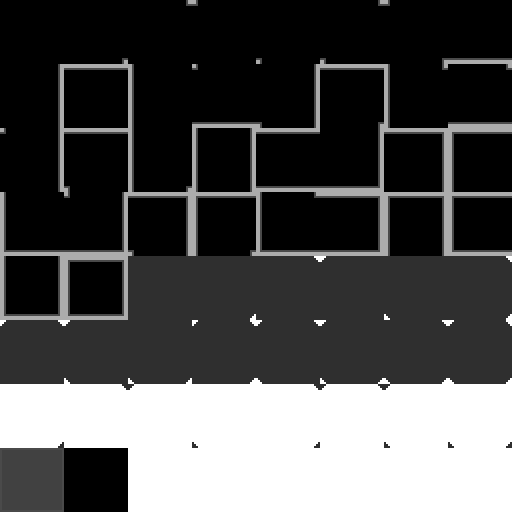
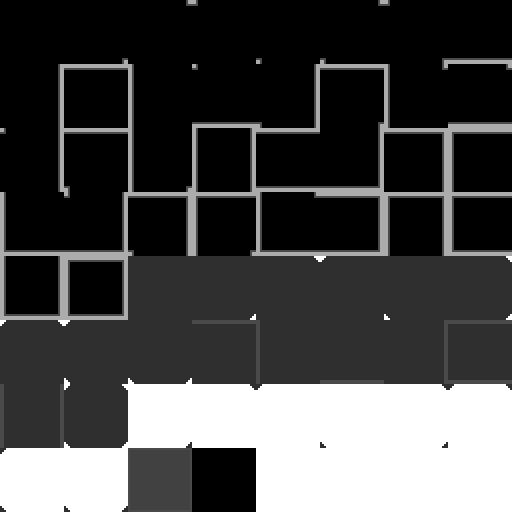
Fix background textures, removing 3 corners, adding sides

diff --git a/src/js/tile.js b/src/js/tile.js
@@ -47,7 +47,7 @@ class Tile extends Sprite {
       // Right side
       const gradright = ctx.createLinearGradient(screenX + screenWidth - screen3D, screenY, screenX + screenWidth, screenY);
       gradright.addColorStop(0, "rgba(47, 47, 47)");
-      gradright.addColorStop(1, "rgba(0,0,0)");
+      gradright.addColorStop(1, "rgba(20,20,20)");
       ctx.fillStyle = gradright;
       ctx.beginPath();
       ctx.moveTo(screenX + screenWidth - screen3D, screenY - screen3D);
@@ -59,7 +59,7 @@ class Tile extends Sprite {
       // Bottom side
       const grad = ctx.createLinearGradient(screenX, screenY + screenHeight - screen3D, screenX, screenY + screenHeight);
       grad.addColorStop(0, "rgba(47, 47, 47)");
-      grad.addColorStop(1, "rgba(0,0,0)");
+      grad.addColorStop(1, "rgba(20,20,20)");
       ctx.fillStyle = grad;
       ctx.beginPath();
       ctx.moveTo(screenX - screen3D, screenY + screenHeight - screen3D);

diff --git a/tiled-assets/background.tsx b/tiled-assets/background.tsx
@@ -1,4 +1,4 @@
 <?xml version="1.0" encoding="UTF-8"?>
 <tileset version="1.10" tiledversion="1.11.2" name="Background" tilewidth="64" tileheight="64" tilecount="64" columns="8">
- <image source="../src/assets/background.png" width="512" height="512"/>
+ <image source="../piskel-assets/background-ugly.png" width="512" height="512"/>
 </tileset>

diff --git a/src/js/game.js b/src/js/game.js
@@ -258,6 +258,10 @@ function gameLoop(timestamp = performance.now()) {
 
   render();
   requestAnimationFrame(gameLoop);
+
+  // const done = performance.now();
+  // const renderTime = (done - now) / 1000;
+  // console.log(renderTime);
 }
 
 // Clamp camera into stage bounds
